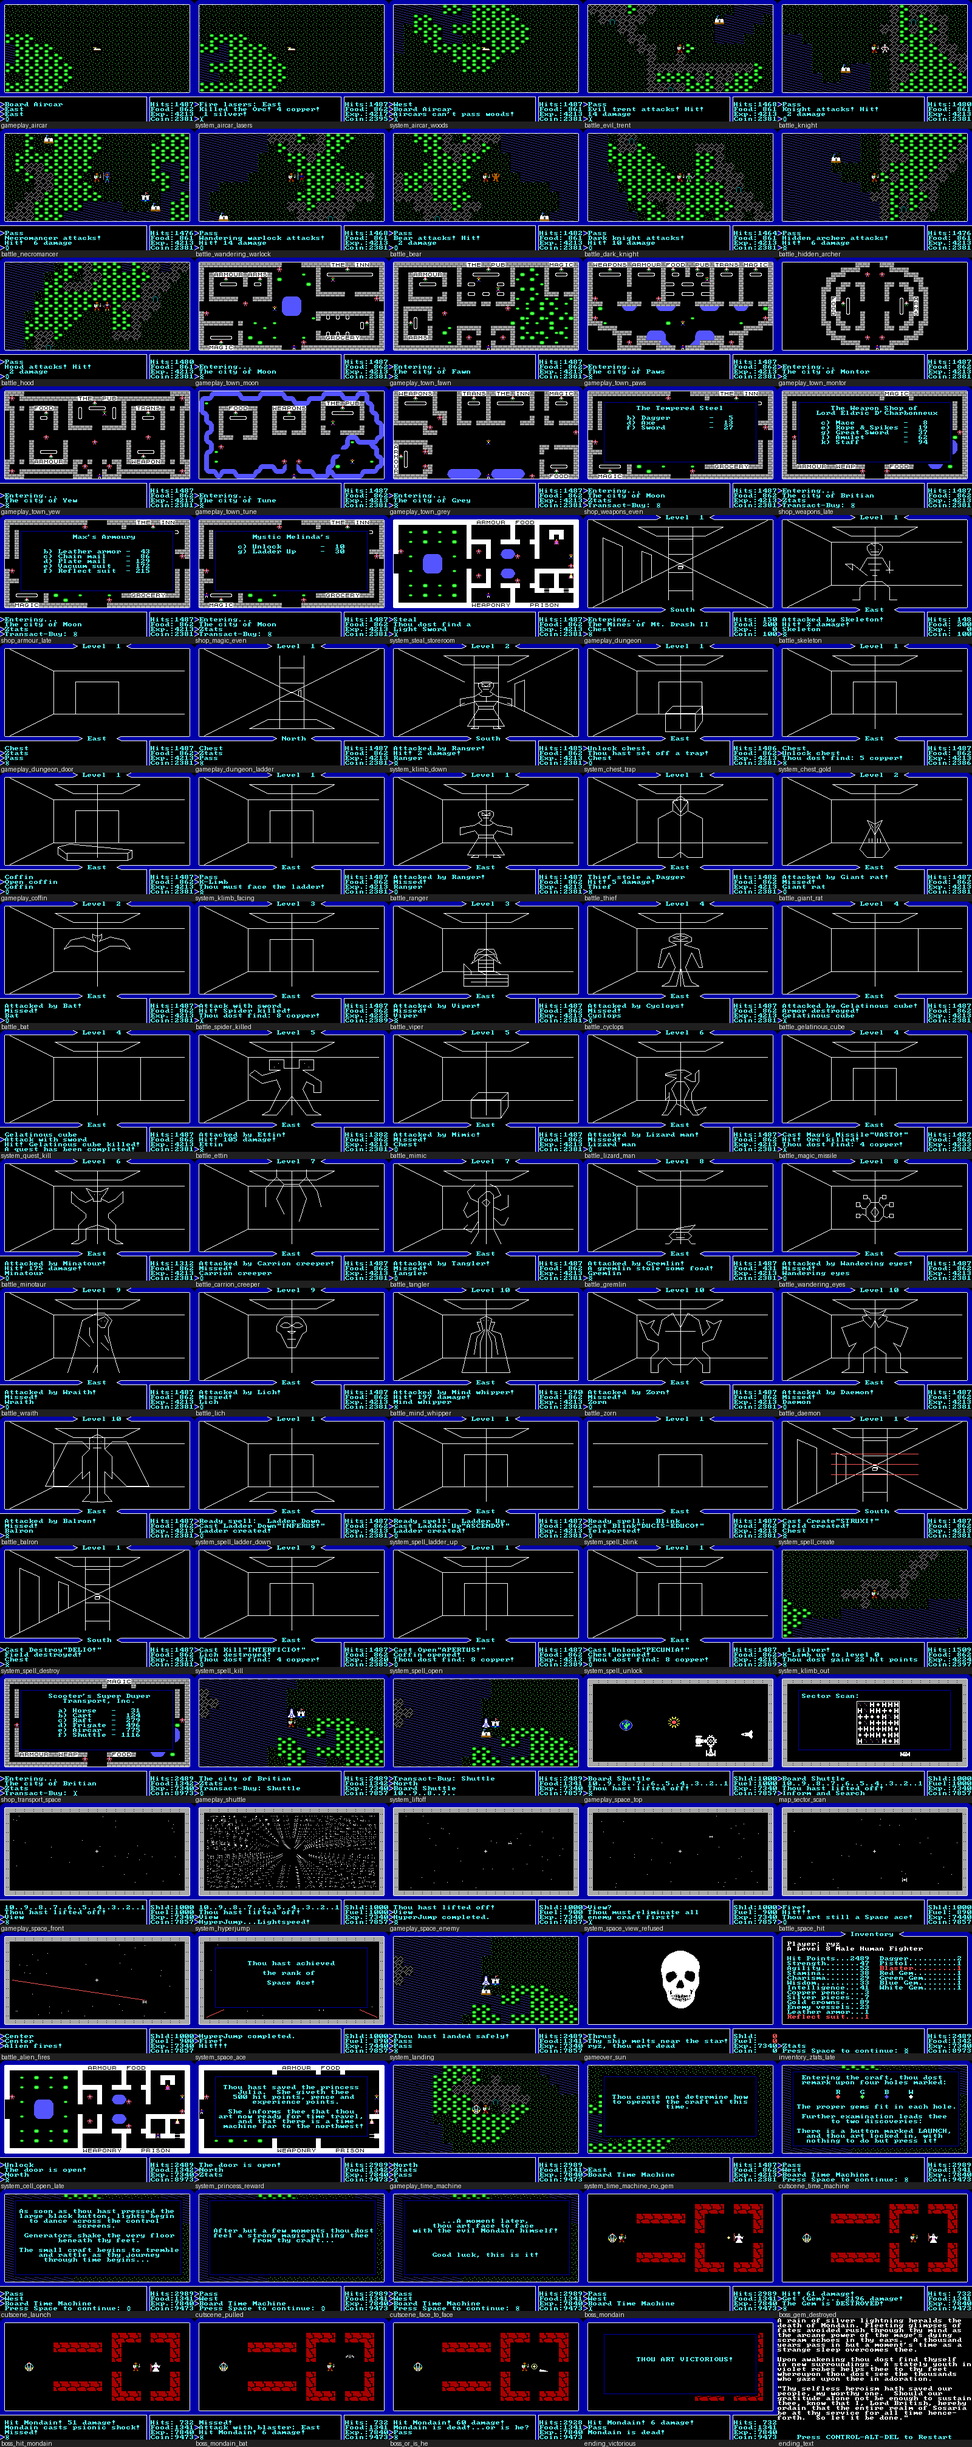
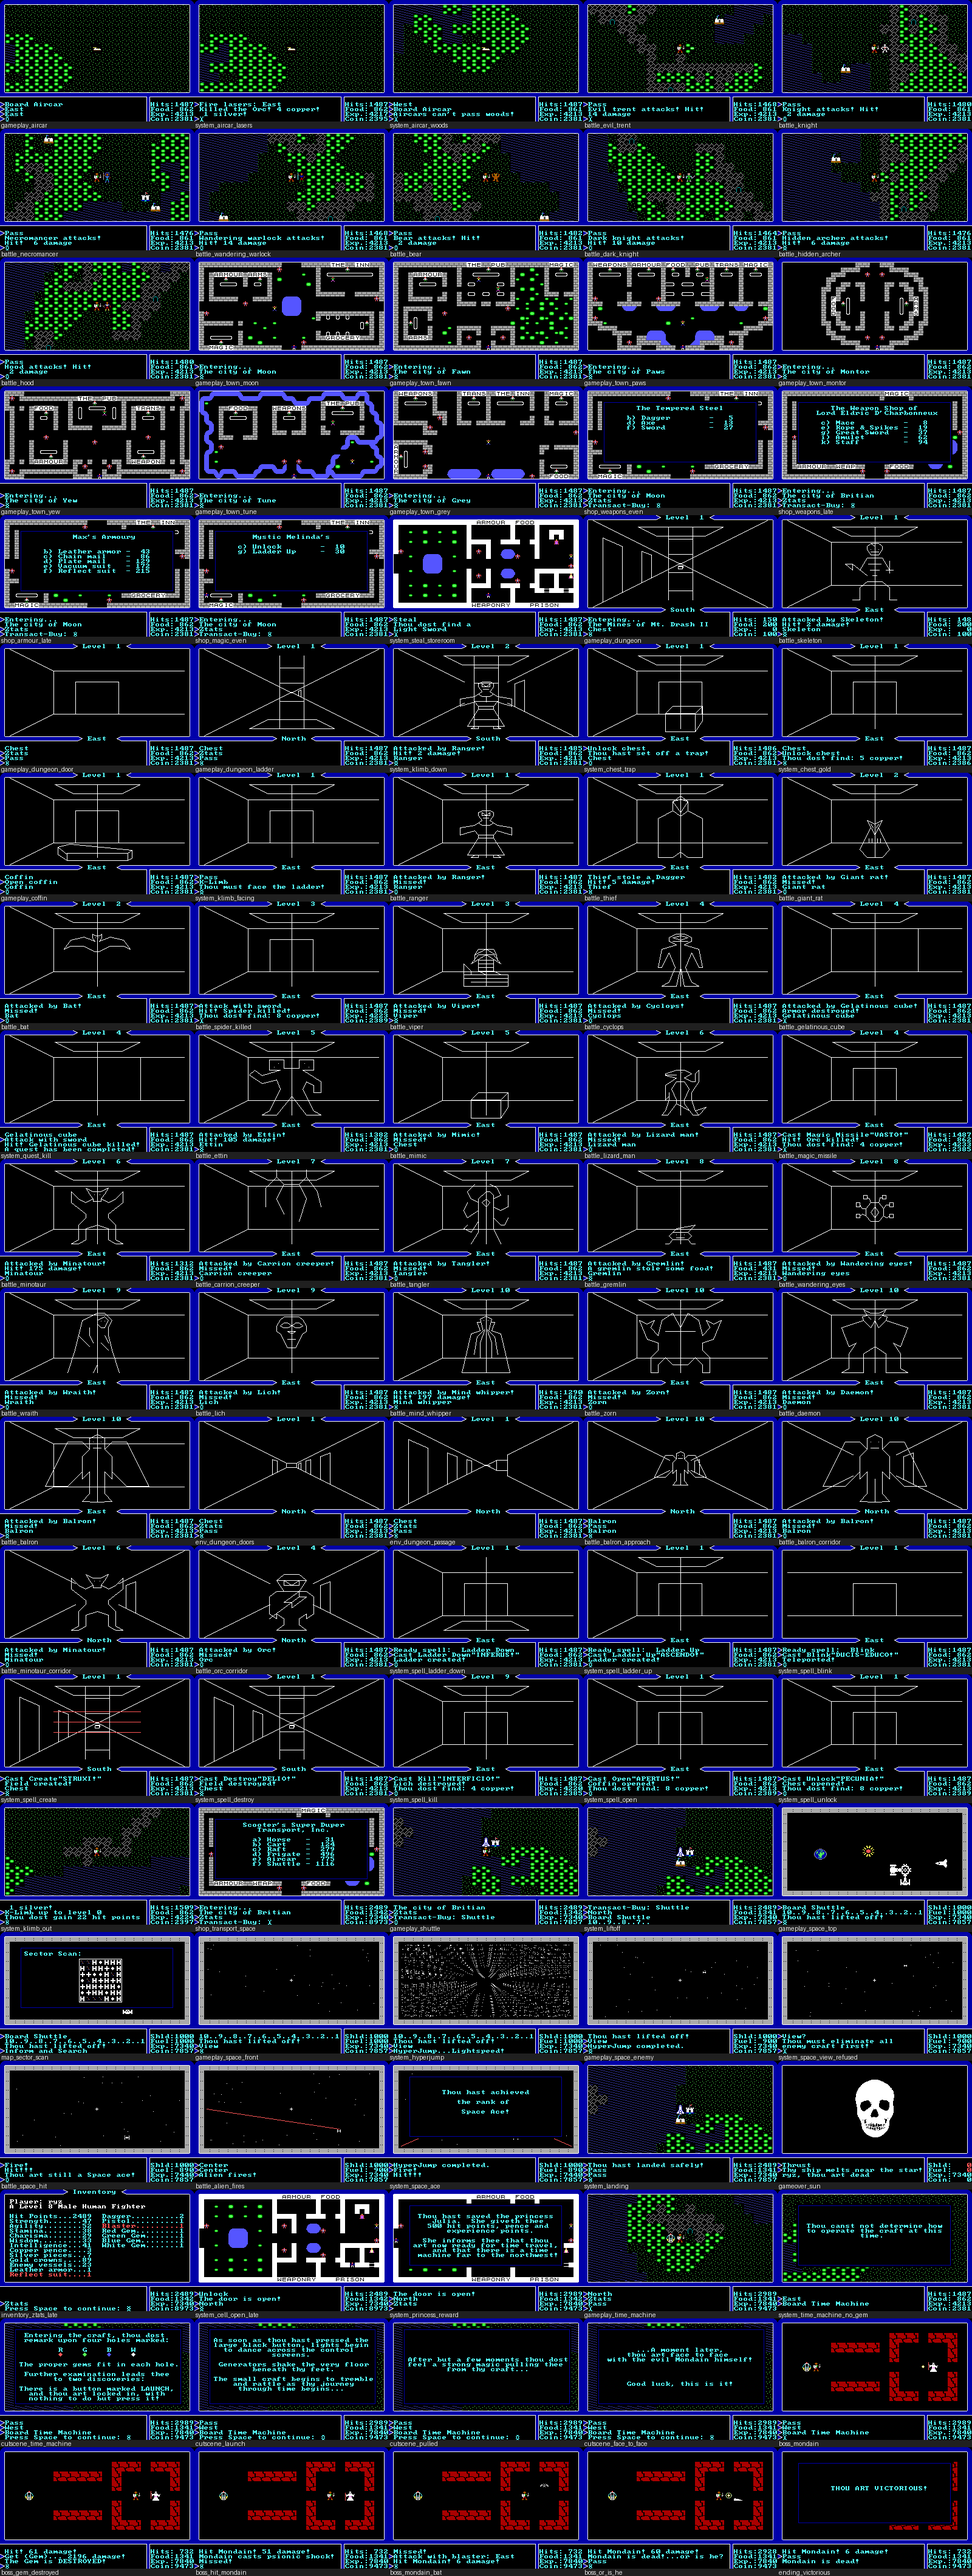
ultima: six dungeon shots away from the entry ladder
Every dungeon fight was staged at (1,1) with the ladder up in view; these stand mid-corridor
on Mt. Drash II level 1 (two plain views, Balron approaching and adjacent, Minotaur, Orc).
Published with --only, reproduced with --verify --published.

Claude-Session: https://claude.ai/code/session_011YfKeg9gCKqSonJJjxnxL4

diff --git a/games/dos/ultima/design/systems.md b/games/dos/ultima/design/systems.md
@@ -61,7 +61,7 @@ leaves the fantasy loop for space combat, a princess rescue and the time machine
 | Conflict | Space combat | front view, gun sight, enemy fighters weave; a hit kills; aliens fire back **(verified)** | f, arrows | +100 experience per kill **(verified)** | §3.9 | `gameplay_space_enemy`, `battle_space_hit`, `battle_alien_fires` | shown |
 | Conflict | Town guards | turn hostile after a theft is caught or a person is attacked **(verified)** | | 7 damage per hit seen | §3.10 | `battle_guard`, `system_steal_caught` | shown |
 | Opponents | Overworld monsters | wander as map pieces and attack when adjacent; land and sea kinds; one kind is invisible **(verified)** | | 15 kinds | [content.md](content.md) §3 | `battle_orc_hit`, `battle_evil_trent`, `battle_hidden_archer`, `battle_ness_creature` | shown |
-| Opponents | Dungeon monsters | 25 kinds; deeper levels hold stronger kinds; quest monsters Gelatinous Cube, Carrion Creeper, Lich, Balron **(verified)** | | | [content.md](content.md) §3 | `battle_skeleton`, `battle_balron`, `battle_lich`, `battle_carrion_creeper` | shown |
+| Opponents | Dungeon monsters | 25 kinds; deeper levels hold stronger kinds; quest monsters Gelatinous Cube, Carrion Creeper, Lich, Balron **(verified)** | | | [content.md](content.md) §3 | `battle_skeleton`, `battle_balron`, `battle_lich`, `battle_carrion_creeper`, `battle_orc_corridor` | shown |
 | Opponents | Mondain | 1,000 hit points; a bat below 500; dies at 0 only when the gem is destroyed **(code, verified)** | a, g | 1,000 / 500 | §3.11 | `boss_mondain`, `boss_hit_mondain`, `boss_mondain_bat`, `ending_victorious` | shown |
 | Items and equipment | Weapons | 16 from hands to blaster; towns sell up to 5, the rest is stolen from castle storerooms **(verified)** | r, w | prices 5 to 94 | §3.5 | `inventory_ready_weapon`, `shop_weapons_late`, `system_steal_storeroom` | shown |
 | Items and equipment | Armour | skin, leather, chain, plate, vacuum suit, reflect suit; a vacuum suit is needed to dock in space **(verified / code)** | r, a | 45 / 90 / 135; suits 172 / 215 (Charisma 19) | §3.5 | `shop_armour`, `shop_armour_late`, `inventory_ready_armour` | shown |
@@ -70,7 +70,7 @@ leaves the fantasy loop for space combat, a princess rescue and the time machine
 | Abilities and magic | Spells | 11: Prayer (always known), Open, Unlock, Magic Missile, Steal, Ladder Down, Ladder Up, Blink, Create, Destroy, Kill; each cast uses one bought charge **(verified)** | r, s, c | 5 to 30 pence | §3.7 | `shop_magic`, `battle_magic_missile`, `system_spell_kill`, `system_spell_blink`, `system_spell_create`, `system_spell_destroy`, `system_spell_open`, `system_spell_unlock`, `system_spell_ladder_up` | shown |
 | World and navigation | Overworld | 168x156 squares, four continents, 84 places **(verified data)** | | | §3.1 | `gameplay_lands_lord_british`, `gameplay_lands_feudal_lords`, `gameplay_lands_dark_unknown`, `gameplay_lands_danger_despair` | shown |
 | World and navigation | Towns and castles | one-screen maps; 8 town plans and 2 castle plans, each used once per continent **(verified)** | | | §3.1 | `gameplay_britian`, `gameplay_town_montor`, `gameplay_castle`, `gameplay_castle_lost_king` | shown |
-| World and navigation | Dungeons | first-person, 10 levels of 11x11 squares, doors, ladders, force fields, chests and coffins **(verified)** | | | §3.8 | `gameplay_dungeon`, `gameplay_dungeon_door`, `gameplay_dungeon_ladder` | shown |
+| World and navigation | Dungeons | first-person, 10 levels of 11x11 squares, doors, ladders, force fields, chests and coffins **(verified)** | | | §3.8 | `gameplay_dungeon`, `gameplay_dungeon_door`, `gameplay_dungeon_ladder`, `env_dungeon_doors`, `battle_balron_approach` | shown |
 | World and navigation | Space | 7x7 sectors, sector scan, hyperjump, starbases, landing only by shuttle **(verified)** | | | §3.9 | `map_sector_scan`, `gameplay_space_top`, `system_landing` | shown |
 | Goals and gating | King quests | odd castles: find a landmark (Strength); even: kill a monster (gem); one quest per king at a time **(verified)** | t, s | | §3.10 | `dialogue_king_quest`, `dialogue_king_kill_quest`, `dialogue_king_busy`, `dialogue_king_olympus`, `system_landmark_grave` | shown |
 | Goals and gating | Space Ace | 20 enemy vessels destroyed **(verified)** | f | 20 | §3.9 | `system_space_ace`, `battle_space_hit` | shown |

diff --git a/README.md b/README.md
@@ -25,7 +25,7 @@ reverse-engineering notes. No game data is included: everything runs from your o
 | [Beyond Zork: The Coconut of Quendor (DOS)](games/dos/beyond-zork/playbook.md) | DOS, Release 57 / 871221, Infocom's own interpreter BZORK.EXE (Frotz 2.32 in the bundle for comparison) | sets main 100 and start 34 (verified, published 2026-11-21; Bzork.exe in palette 6, black on light grey, set at boot; 640x200 row-doubled to 640x400): menus, character creation, all six palettes and monochrome, village, cellar, moors, Mizniaport shop, two deaths, 13 Frotz 2.32 comparison shots; three lenses clean |
 | [Might and Magic Book One: The Secret of the Inner Sanctum (DOS)](games/dos/might-and-magic/playbook.md) | DOS (GOG release) | screenshot set (249, to the ending text: every command, 45 monster groups, all looks), three lens documents (systems, interface, content), area warp and survey of all 55 areas, saves |
 | [Might and Magic II: Gates to Another World (DOS)](games/dos/might-and-magic-2/playbook.md) | DOS (GOG release, boots via `loadfix -4`) | screenshot sets main (228, to the Congratulations ending: Kalohn, Sheltem, override code, cryptogram) and start (52, honest new party from power-on to the first sign-in, lost orc fight included), three lens documents, warp to all 60 areas and centuries, event lister, saves |
-| [Ultima I: The First Age of Darkness (DOS)](games/dos/ultima/playbook.md) | DOS (GOG, five programs) | screenshot set (195, to the ending text: creation, towns, castles, landmarks, dungeons 1-10, space, Mondain), three lens documents, warp to 84 places, shop tool, saves |
+| [Ultima I: The First Age of Darkness (DOS)](games/dos/ultima/playbook.md) | DOS (GOG, five programs) | screenshot set (201, to the ending text: creation, towns, castles, landmarks, dungeons 1-10 (fights at the entry and mid-corridor), space, Mondain), three lens documents, warp to 84 places, shop tool, saves |
 | [Ultima II: The Revenge of the Enchantress (DOS)](games/dos/ultima-2/playbook.md) | DOS (GOG) | screenshot set (226, to the ending text: five periods, planets, quest chain, honest Minax fight), three lens documents, period warp, map/town/shop/monster tools, saves |
 | [Ultima III: Exodus (DOS)](games/dos/ultima-3/playbook.md) | DOS (GOG) | screenshot set (260, to the ending text: party of four, nine combat fields, Ambrosia, moongates, dungeon rods, Time Lord, Exodus), three lens documents plus rules.md, warps, town/dungeon/RNG tools, saves |
 | [Wizardry: Proving Grounds of the Mad Overlord (DOS)](games/dos/wizardry/playbook.md) | DOS (1984 booter via the 1998 loader, disk images) | screenshot set (208, to the ending: Werdna beaten on screen), three lens documents, ten floor maps from the disk, items with prices, floor warp, saves incl. the Wizardry II transfer source |

diff --git a/games/dos/ultima/design/content.md b/games/dos/ultima/design/content.md
@@ -36,7 +36,7 @@ Shot ids are those of set `main`.
 | Castle: Lord British plan | odd castles | pools, armour, food and weaponry rooms, throne, prison **(verified)** | `gameplay_castle` |
 | Castle: Lost King plan | even castles | mess hall, stables, prison, F W A rooms **(verified)** | `gameplay_castle_lost_king` |
 | Landmark | 8 on the map | a sign, a pillar, a tower or a grave on the map, an inscription box inside **(verified)** | `gameplay_landmark_tower`, `system_landmark_grave` |
-| Dungeon | 36 entrances | white wireframe on black; doors, ladders, force fields; deeper is deadlier **(verified)** | `gameplay_dungeon`, `gameplay_dungeon_door`, `gameplay_dungeon_ladder`, `system_spell_create` |
+| Dungeon | 36 entrances | white wireframe on black; doors, ladders, force fields; deeper is deadlier **(verified)** | `gameplay_dungeon`, `gameplay_dungeon_door`, `gameplay_dungeon_ladder`, `env_dungeon_doors`, `env_dungeon_passage`, `system_spell_create` |
 | Space | 49 sectors | planet, sun, starbases; starfield front view; hyperspace streaks; the sun burns ships **(verified)** | `gameplay_space_top`, `gameplay_space_front`, `system_hyperjump`, `gameover_sun` |
 | Mondain's chamber | after the time machine | red brick walls on black **(verified)** | `boss_mondain` |
 | Ending | | white text on black **(verified)** | `ending_text` |
@@ -70,7 +70,7 @@ Dungeon (25 kinds, white line drawings; stronger kinds deeper; the level shown i
 | Gelatinous cube | 4 | invisible; destroys armour; Lost King's quest monster | `battle_gelatinous_cube`, `system_quest_kill` |
 | Ettin | 5 | 105 damage | `battle_ettin` |
 | Mimic | 5 | looks like a chest | `battle_mimic` |
-| Lizard man, Minotaur | 6 | Minotaur 175 damage | `battle_lizard_man`, `battle_minotaur` |
+| Lizard man, Minotaur | 6 | Minotaur 175 damage | `battle_lizard_man`, `battle_minotaur`, `battle_minotaur_corridor` |
 | Carrion creeper | 7 | Rondorin's quest monster | `battle_carrion_creeper` |
 | Tangler | 7 | | `battle_tangler` |
 | Gremlin | 8 | steals food | `battle_gremlin` |
@@ -80,7 +80,7 @@ Dungeon (25 kinds, white line drawings; stronger kinds deeper; the level shown i
 | Invisible seeker | 9 | not drawn | none: an empty corridor picture, like the cube |
 | Mind whipper | 10 | mental attack, 197 damage | `battle_mind_whipper` |
 | Zorn, Daemon | 10 | | `battle_zorn`, `battle_daemon` |
-| Balron | 10 | Shamino's quest monster | `battle_balron` |
+| Balron | 10 | Shamino's quest monster | `battle_balron`, `battle_balron_approach`, `battle_balron_corridor` |
 
 Others: castle guards (`battle_guard`), the jester (`system_jester_key`), enemy fighters in space
 (`gameplay_space_enemy`, `battle_space_hit`, `battle_alien_fires`), Mondain and his bat form (`boss_mondain`,

diff --git a/games/dos/ultima/shots/main/index.md b/games/dos/ultima/shots/main/index.md
@@ -1,6 +1,6 @@
 # Ultima I: The First Age of Darkness (DOS) - shots: main
 
-Platform dos, region na, model svga-500, ROM SHA-1 `19a3c1ed6697fc84e9ee3c5460397c807ae1188a`. 195 shots. Contact sheet: [ultima_dos_na_set_sheet.png](ultima_dos_na_set_sheet.png). Native size; enlarged copies on demand with `python3 tools/x3.py <this folder>`. File names: `<game>_<platform>_<region>_<category>_<id>.png`.
+Platform dos, region na, model svga-500, ROM SHA-1 `4b820a487f9c7161a0e6baacc7843a2aec4b6e3a`. 201 shots. Contact sheet: [ultima_dos_na_set_sheet.png](ultima_dos_na_set_sheet.png). Native size; enlarged copies on demand with `python3 tools/x3.py <this folder>`. File names: `<game>_<platform>_<region>_<category>_<id>.png`.
 
 | id | category | caption | settled | image |
 |---|---|---|---|---|
@@ -160,6 +160,12 @@ Platform dos, region na, model svga-500, ROM SHA-1 `19a3c1ed6697fc84e9ee3c546039
 | battle_zorn | battle | Level 10: a Zorn | no | [png](ultima_dos_na_battle_battle_zorn.png) |
 | battle_daemon | battle | Level 10: a Daemon | no | [png](ultima_dos_na_battle_battle_daemon.png) |
 | battle_balron | battle | Level 10: the Balron, deepest of the dungeon monsters | no | [png](ultima_dos_na_battle_battle_balron.png) |
+| env_dungeon_doors | gameplay | Dungeon corridor, level 1: doors on both sides, a wall ahead | no | [png](ultima_dos_na_gameplay_env_dungeon_doors.png) |
+| env_dungeon_passage | gameplay | Dungeon corridor, level 1: doors on the left, a side passage on the right | no | [png](ultima_dos_na_gameplay_env_dungeon_passage.png) |
+| battle_balron_approach | battle | Level 10: a Balron two squares down the corridor, coming closer | no | [png](ultima_dos_na_battle_battle_balron_approach.png) |
+| battle_balron_corridor | battle | Level 10: Attacked by Balron! in a corridor lined with doors | no | [png](ultima_dos_na_battle_battle_balron_corridor.png) |
+| battle_minotaur_corridor | battle | Level 6: Attacked by Minotaur! beside a door | no | [png](ultima_dos_na_battle_battle_minotaur_corridor.png) |
+| battle_orc_corridor | battle | Level 4: Attacked by Orc! Hit! 53 damage, mid-corridor | no | [png](ultima_dos_na_battle_battle_orc_corridor.png) |
 | system_spell_ladder_down | system | Cast Ladder Down "INFERUS!": Ladder created! | no | [png](ultima_dos_na_system_system_spell_ladder_down.png) |
 | system_spell_ladder_up | system | Cast Ladder Up "ASCENDO!": Ladder created! | no | [png](ultima_dos_na_system_system_spell_ladder_up.png) |
 | system_spell_blink | system | Cast Blink "DUCIS-EDUCO!": Teleported! | no | [png](ultima_dos_na_system_system_spell_blink.png) |

diff --git a/docs/status.md b/docs/status.md
@@ -78,7 +78,7 @@ its lens documents. Do not edit between the markers.
 | Beyond Zork: The Coconut of Quendor (DOS) | `games/dos/beyond-zork/` | [main](../games/dos/beyond-zork/shots/main/index.md) 100, [start](../games/dos/beyond-zork/shots/start/index.md) 34 | yes | level 2 and beyond, the cellar after the door locks (light, wine for the cook), lighthouse upper floors, Fields of Frotzen, Skyway and Gurth City beyond the market, potion and scroll effects |
 | Might and Magic Book One: The Secret of the Inner Sanctum (DOS) | `games/dos/might-and-magic/` | [main](../games/dos/might-and-magic/shots/main/index.md) 249 | yes | surprise message, search find, rest interrupted, surrender accepted, impostor, Eye of Goros, Astral door, wall sets decoded from WALLPIX.DTA, Fire Ball hitting the party (unexplained) |
 | Might and Magic II: Gates to Another World (DOS) | `games/dos/might-and-magic-2/` | [main](../games/dos/might-and-magic-2/shots/main/index.md) 228, [start](../games/dos/might-and-magic-2/shots/start/index.md) 52 | yes | hireling hire, Cartographer automap, elemental shrines and lords, bashing a locked door, time travel by the game's own means (YEAR poke used), temple cure and spell purchase transactions, a won fight and a purchase in the start set (the new party has 0 gold; the only encounter met on foot near Middlegate, ten Orcs at C2 (2,5), beats it) |
-| Ultima I: The First Age of Darkness (DOS) | `games/dos/ultima/` | [main](../games/dos/ultima/shots/main/index.md) 195 | yes | starbase docking and ship choice, pub seduction, bard/jester songs, Steal spell |
+| Ultima I: The First Age of Darkness (DOS) | `games/dos/ultima/` | [main](../games/dos/ultima/shots/main/index.md) 201 | yes | starbase docking and ship choice, pub seduction, bard/jester songs, Steal spell |
 | Ultima II: The Revenge of the Enchantress (DOS) | `games/dos/ultima-2/` | [main](../games/dos/ultima-2/shots/main/index.md) 226 | yes | Up ladder and Blink spells, fleeing, natural-kill loot |
 | Ultima III: Exodus (DOS) | `games/dos/ultima-3/` | [main](../games/dos/ultima-3/shots/main/index.md) 260 | yes | Surmandum failing into ashes, lava damage without the Mark of Fire, starvation and poison per turn |
 | Wizardry: Proving Grounds of the Mad Overlord (DOS) | `games/dos/wizardry/` | [main](../games/dos/wizardry/shots/main/index.md) 208 | yes | Murphy's ghost and the keys (floor 1 statues never offer a search), spinner, criticals, stoning, body recovery |

diff --git a/games/dos/ultima/playbook.md b/games/dos/ultima/playbook.md
@@ -224,6 +224,7 @@ Main character **ryz** (owner's rule): typed in GEN.EXE's name prompt one key pe
 | Mid-game character | `MIDGAME` (level 5, 1487 hits, sword, chain mail, spells, horse and frigate, 2417 moves), then `q`: save `03_midgame`, checkpoint `mid` | RAM | verified |
 | Position in a town, castle or dungeon for a character whose Ztats has two pages | `TPOS2:x:y` (= `TPOS` with a second space) | RAM | verified |
 | A dungeon monster of any kind | facing east from (1,1): `poke:19CA2=02,poke:19CA0=LL,poke:19D60=KK00,poke:19D64=HHHH,TPOS2:01:01,space,w60` (LL level, KK monster id, HHHH its hit points). Ids: 0 Ranger, 1 Skeleton, 2 Thief, 3 Giant rat, 4 Bat, 5 Spider, 6 Viper, 7 Orc, 8 Cyclops, 9 Gelatinous cube, 10 Ettin, 11 Mimic, 12 Lizard man, 13 Minatour, 14 Carrion creeper, 15 Tangler, 16 Gremlin, 17 Wandering eyes, 18 Wraith, 19 Lich, 20 Invisible seeker, 21 Mind whipper, 22 Zorn, 23 Daemon, 24 Balron | RAM | verified (all 25) |
+| A dungeon fight away from the entry ladder | the (1,1) shortcut shows the ladder up through the ceiling in every frame. Mt. Drash II level 1 map (`mdungeon`): clear its three monsters (`poke:19FE0=FFFF,poke:19FA0=FFFF,poke:1A000=FFFF`), face north (`poke:19CA2=03`), stand at (5,6) (`TPOS2:05:06`: doors both sides, wall ahead) with the monster at (5,5) (`poke:19E88=KK00,poke:19E8C=HHHH`), or at (5,7) to see it two squares off (`19E78`/`19E7C`). Cell address: 19CA6 + x*0x58 + y*8. A kill frame mid-corridor cannot be caught: a new monster is placed and attacks in the same turn | RAM | verified (`battle_*_corridor`, `env_dungeon_*`) |
 | Chest or coffin under the hero in a dungeon | `poke:19D0A=0400` (chest) / `0500` (coffin) before `TPOS2:01:01` | RAM | verified |
 | Choose a roll | `poke:115CC=XXXX` right before the key that rolls (pub tips: 00F0 space, 0030 princess, 0050 Mondain, 0010 lakes; castle weaponry theft: 0060 Light Sword, 0080 Blaster; jester hit: 0000) | RAM, code | verified |
 | Kill a castle person in one blow | the people table 19C1C + 8*i (hit points, type, x, y; jester in Lord British's castle i = 7: `poke:19C54=0100`, `freeze:19C58=24000700` keeps him beside the hero at (23,07)) | RAM | verified |
